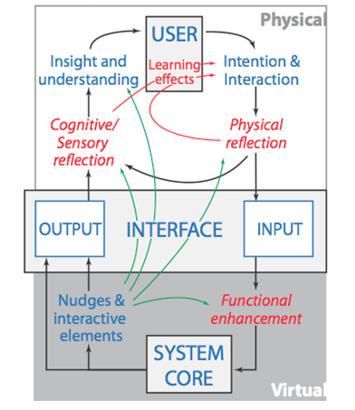
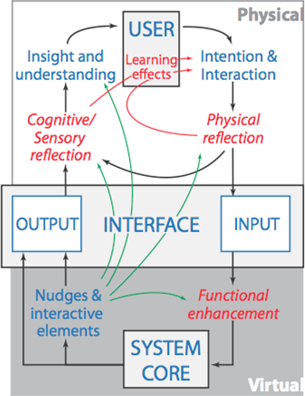
Fix overlapping image on one of the slides (fixed height size). Add slide emphasising 'what users say and do are different' - encourage discussion and critical thinking at the start.

diff --git a/material/lectures/Lecture 09 - Design Thinking.html b/material/lectures/Lecture 09 - Design Thinking.html
@@ -59,7 +59,7 @@
 	<textarea data-template>
 		## Overview
 
-		* Recap on Interaction Design (IxD)
+		* **Recap** on Interaction Design (IxD)
 		* Introduce Concept of **Design Thinking** 
 		* Interaction Design Example   
 		* Questions and Discussion
@@ -73,19 +73,40 @@ And the concept behind design thinking!
 </section>
 				
 
-
 <!--
 *****************
 --->
 
+<section data-markdown 
+         data-transition="fade" 
+		 data-background-image=''
+         data-background="linear-gradient(90deg,black, black 1%, rgba(0,0,0,0.2) 100% ),url('https://images.pexels.com/photos/3715428/pexels-photo-3715428.jpeg\?auto=compress&cs=tinysrgb&h=650&w=940') 100% 100%/cover" 
+		 data-background-color="#3553bc"
+         data-background-size="cover"
+		 style="color:white"
+         data-background-transition="slide">
+<textarea data-template>
+	
+<div style='font-size:120pt;text-transform: uppercase;text-align:left;'>
+What users <b>say</b> and what they <b>do</b> are different.					
+</div>
 
+<aside class='notes'>
+As you should be aware by now, you can't simply ask a person 
+what they want and expect them to give you an ideal answer that fits 
+all circumstances and people (also what they end up doing is not always 
+what they plan to do at the start).
+</aside>
+ 
+</textarea>
+</section>
 
  
- 
+<!-- ---------------------------------- -->
  
 <section data-markdown> 
 <textarea data-template>
-# What is    interaction    design?   
+# **What** is interaction design?   
  
 <aside class='notes'>
  Now when you're asking yourself what interaction design is, hopefully you know that the design part of this term only means you are designing the interaction part.
@@ -96,8 +117,7 @@ And the concept behind design thinking!
  
  
 
- 
- 
+
  
 <section data-markdown> 
 <textarea data-template>
@@ -105,10 +125,12 @@ And the concept behind design thinking!
 <img src='.\images\lec09Slide5-1.png' 
  style = '
    border:0;
-   width:450.0px;
-   height:auto;
+   width:auto;
+   height:520px;
+   border: 0px;
+   box-shadow:none;
 ' >
-  * Interaction == Communication (two ways)
+  * Interaction == Communication (**two ways**)
   * Actions & Feedback
     * Abundance of theory/research/articles on topic
 	* Wider Context of the Subject
@@ -245,27 +267,27 @@ So interaction design is about creating a plan for that communication, which wil
 <img src='.\images\lec09Slide9-1.png' 
  style = '
    border:0;
-   width:317.8386px;
-   height:auto;
+   width:auto;
+   height:300px
 ' >
 <img src='.\images\lec09Slide9-2.png' 
  style = '
    border:0;
-   width:414.5138px;
-   height:auto;
+   width:auto;
+   height:300px
 ' >
 
 <img src='.\images\lec09Slide9-3.png' 
  style = '
    border:0;
-   width:402.273px;
-   height:auto;
+   width:auto;
+   height:300px
 ' >
 <img src='.\images\lec09Slide9-4.png' 
  style = '
    border:0;
-   width:302.2736px;
-   height:auto;
+   width:auto;
+   height:300px
 ' >
  
 <aside class='notes'>
@@ -335,8 +357,8 @@ For example the product should help a user achieve whatever predefined goal effe
  style = '
    border:0;
    text-align: center;
-   width:753.1024px;
-   height:auto;
+   width:auto;
+   height:700px;
 ' >
  
 <aside class='notes'>
@@ -469,13 +491,13 @@ How to make 3D design on a computer so easy that a child can use it.
 <section data-markdown> 
 <textarea data-template>
 
-### Example: Explore (Use Sketches/Doodles)
+### **Example**: Explore (Use Sketches/Doodles)
 
 <img src='.\images\lec09Slide24-1.png' 
  style = '
    border:0;
-   width:972.2657px;
-   height:auto;
+   width:auto;
+   height:710px;
 ' >
  
 <aside class='notes'>
@@ -579,8 +601,8 @@ Why? Because it's so much easier to learn and understand.
 <img src='.\images\lec09Slide32-1.png' 
  style = '
    border:0;
-   width:909.248px;
-   height:auto;
+   width:auto;
+   height:700px;
 ' >
  
 <aside class='notes'>
@@ -611,7 +633,7 @@ Example, mixed reality mode where you interact with the physical and virtual mod
  
 <section data-markdown> 
 <textarea data-template>
-#### Example: Visualize Change (Dynamically Change Interface)
+#### Example: Visualize **Change** (Dynamically Change Interface)
 
 <img src='.\images\lec09Slide34-1.png' 
  style = '
@@ -645,15 +667,14 @@ Example, mixed reality mode where you interact with the physical and virtual mod
 <section data-markdown> 
 <textarea data-template>
 
-#### Details Mixed Reality 
+#### Details **Mixed Reality**
 
 <img src='.\images\lec09Slide35-1.png' 
  style = '
    border:0;
    width:570.7106px;
    height:auto;
-' >
-
+' ><br>
 <img src='.\images\lec09Slide35-3.png' 
  style = '
    border:0;
@@ -695,7 +716,7 @@ Example, mixed reality mode where you interact with the physical and virtual mod
  
 <section data-markdown> 
 <textarea data-template>
-## User Characteristics are part of the Problem Space
+## User Characteristics are part of the **Problem Space**
    
    * Cognitive abilities can **vary** - e.g. memory
      * Educational background, age, culture and nationality, physical abilities, attitude to computers....
@@ -866,8 +887,8 @@ Then later you can continue to make low-fidelity prototypes to test specific fun
 <img src='.\images\lec09Slide52-1.png' 
  style = '
    border:0;
-   width:890.5px;
-   height:auto;
+   width:auto;
+   height:700px;
 ' >
  
 <aside class='notes'>
